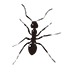
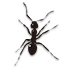
make two types of ants. Black and Red. Red ants have 4 lives, while black ants only have 1 life.

diff --git a/KillAntsAlarm/Ant/Ant.m b/KillAntsAlarm/Ant/Ant.m
@@ -15,9 +15,9 @@
 @synthesize antDeadImage = _antDeadImage;
 static inline double radians (double degrees) {return degrees * M_PI/180;}
 
--(id)initAnt:(NSInteger)antNo{
+-(id)initAnt:(NSInteger)antNo withAntLife:(NSInteger)life{
     self = [super init];
-    
+    _life = life;
     NSString *antsHitSoundPath = [NSString stringWithFormat:@"%@%@", [[NSBundle mainBundle] resourcePath], @"/antsHit.mp3"];
     NSString *antsDieSoundPath = [NSString stringWithFormat:@"%@%@", [[NSBundle mainBundle] resourcePath], @"/antsDie.mp3"];
     NSURL *antsHitFilePath = [NSURL fileURLWithPath:antsHitSoundPath isDirectory:NO];
@@ -31,8 +31,14 @@ static inline double radians (double degrees) {return degrees * M_PI/180;}
     
     
     NSMutableArray *array = [[NSMutableArray alloc] init];
-    for(int i = 0; i < 9; i ++){
-        [array addObject:[UIImage imageNamed:[NSString stringWithFormat:@"ant%d.png",i]]];
+    if(life > 1){
+        for(int i = 0; i < 9; i ++){
+            [array addObject:[UIImage imageNamed:[NSString stringWithFormat:@"redAnt%d.png",i]]];
+        }
+    }else{
+        for(int i = 0; i < 9; i ++){
+            [array addObject:[UIImage imageNamed:[NSString stringWithFormat:@"ant%d.png",i]]];
+        }
     }
     int randomHeight;
     if (iPhone5) {
@@ -63,16 +69,21 @@ static inline double radians (double degrees) {return degrees * M_PI/180;}
 }
 
 -(void)tapAnt:(UITapGestureRecognizer *)recognizer{
-    [_antImageView stopAnimating];
-    AudioServicesPlaySystemSound(antsDie);
-    dead = TRUE;
-    _antImageView.image = _antDeadImage;
-    [UIImageView animateWithDuration:1 animations:^{
-        _antImageView.alpha = 0;
-    } completion:^(BOOL finished){
-        [_antImageView removeFromSuperview];
-        [_delegate countAliveAnt];
-    }];
+    _life--;
+    if(_life < 1){
+        [_antImageView stopAnimating];
+        AudioServicesPlaySystemSound(antsDie);
+        dead = TRUE;
+        _antImageView.image = _antDeadImage;
+        [UIImageView animateWithDuration:1 animations:^{
+            _antImageView.alpha = 0;
+        } completion:^(BOOL finished){
+            [_antImageView removeFromSuperview];
+            [_delegate countAliveAnt];
+        }];
+    }else{
+        _antImageView.alpha -= 0.2;
+    }
 }
 
 -(CGFloat)calibrateRadians:(CGFloat)radians{
@@ -125,5 +136,8 @@ static inline double radians (double degrees) {return degrees * M_PI/180;}
     }];
 }
 
+-(void)setRedAnt:(NSInteger)life{
+    _life = life;
+}
 
 @end

diff --git a/KillAntsAlarm/KillAntsAlarmStartViewController.m b/KillAntsAlarm/KillAntsAlarmStartViewController.m
@@ -57,7 +57,7 @@
         _isStart = NO;
         KillAntsAlarmAppDelegate *appDelegate = [[UIApplication sharedApplication] delegate];
         appDelegate.antsStartViewController = nil;
-        [self dismissModalViewControllerAnimated:YES];
+        [self dismissViewControllerAnimated:YES completion:nil];
     }
 }
 
@@ -76,7 +76,12 @@
 -(void)initAnts{
     _ants = [[NSMutableArray alloc] init];
     for(int i = 0; i < ANT_NUM; i ++){
-        Ant *ant = [[Ant alloc] initAnt:i];
+        int life;
+        if(i % 7 == 6)
+            life = 4;
+        else
+            life = 1;
+        Ant *ant = [[Ant alloc] initAnt:i withAntLife:life];
         ant.delegate = self;
         [_ants addObject:ant];
         [ant animateMethod];

diff --git a/KillAntsAlarm/Ant/Ant.h b/KillAntsAlarm/Ant/Ant.h
@@ -23,12 +23,14 @@
     BOOL dead;
     SystemSoundID antsDie;
     SystemSoundID antsHit;
+    NSInteger _life;
 }
 @property (nonatomic, strong) UITapGestureRecognizer *tapGestureRecognizer;
 @property (nonatomic, strong) id <AntDelegate> delegate;
 @property (nonatomic, strong) UIImageView *antImageView;
 @property (nonatomic, strong) UIImage *antDeadImage; 
--(id)initAnt:(NSInteger)antNo;
+-(id)initAnt:(NSInteger)antNo withAntLife:(NSInteger)life;
 -(void)animateMethod;
+-(void)setRedAnt:(NSInteger)life;
 
 @end

diff --git a/KillAntsAlarm/Clock/ClockView.h b/KillAntsAlarm/Clock/ClockView.h
@@ -47,6 +47,7 @@
 - (void)setSecHandImage:(CGImageRef)image;
 - (void)setClockBackgroundImage:(CGImageRef)image;
 -(void)setAlarm:(int)hour minute:(int)minute;
+- (void) updateClock:(NSTimer *)theTimer;
 -(int)getNoon;
 //to customize hands size: adjust following values in .m file
 //HOURS_HAND_LENGTH

diff --git a/KillAntsAlarm/Clock/ClockView.m b/KillAntsAlarm/Clock/ClockView.m
@@ -212,7 +212,6 @@ float Degrees2Radians(float degrees) { return degrees * M_PI / 180; }
         [self.layer addSublayer:containerLayer];
         [self updateClock:nil];
 	}
-    
 	return self;
 }
 
